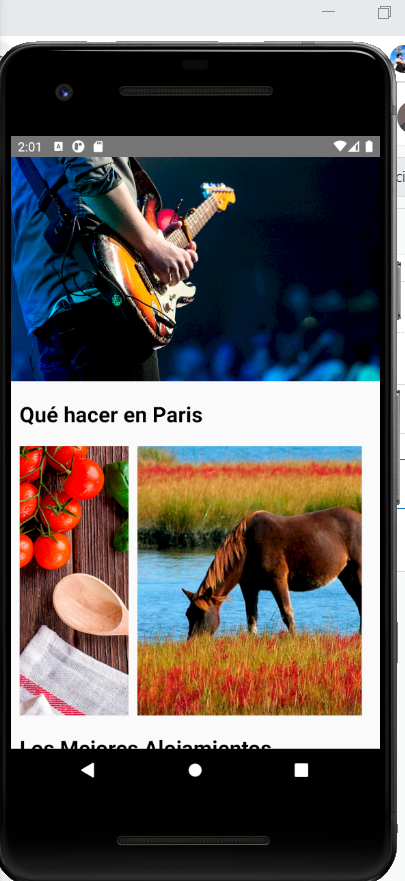
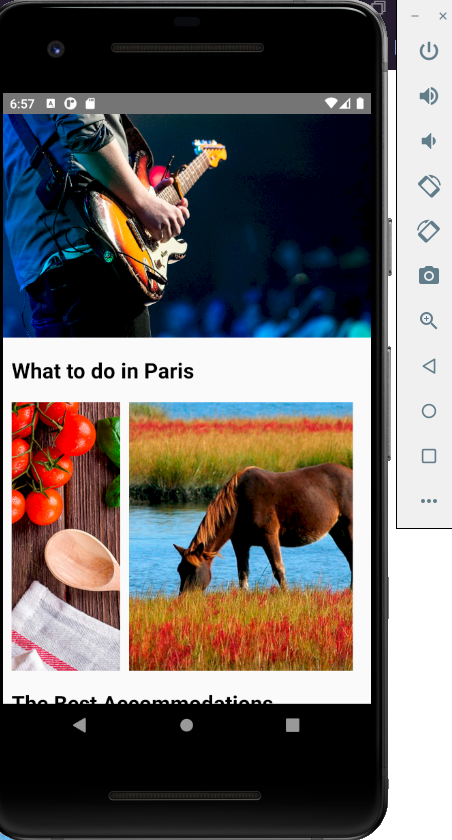
Edit readme

diff --git a/05-layoutsnative/README.md b/05-layoutsnative/README.md
@@ -1,7 +1,20 @@
-# Layout app Imagenes en react native usando flex-box, y componentes de React Native como View, StyleSheet, Image, Text y ScrollView
+# Layout app
+
+## _Framework: React native_
+
+[![Build Status](https://travis-ci.org/joemccann/dillinger.svg?branch=master)](https://travis-ci.org/joemccann/dillinger)
+
+## Features
+- React Native Client
+- flex-box
+- React Native components such as:
+  - View StyleSheet
+  - Image
+  - Text
+  - ScrollView
 
 ![Screenshot](assets/screenshots/home.png)
-![Screenshot](assets/screenshots/que_hacer.png)
-![Screenshot](assets/screenshots/que_hacer2.png)
-![Screenshot](assets/screenshots/que_hacer3.png)
-![Screenshot](assets/screenshots/hospedajes.png)
+![Screenshot](assets/screenshots/to_do.png)
+![Screenshot](assets/screenshots/to_do2.png)
+![Screenshot](assets/screenshots/best_accommodations.png)
+![Screenshot](assets/screenshots/accommodations_LA.png)
